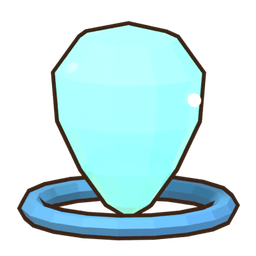
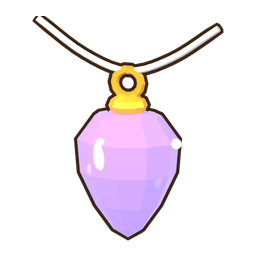
fix(relics): 모으다 만 유물 ×3 가중 — 첫 초월 ★1 약 89 → 71일 · 바다의 눈물 아이콘을 보라 눈물 펜던트로(물방울과 구분)
- relicDrawRates: 같은 등급 안에서 조각이 ★ 칸을 채우다 만(조각 % 3 > 0) 유물을 ×3(RELIC_IN_PROGRESS_WEIGHT).
  등급 확률 · 가격 60/540(사용자 확정)은 그대로, 흩어지던 조각이 한 유물로 모인다. 유물별 공시 확률은 같은 함수라 저절로 맞다.
  시뮬(보석 4000회): 첫 초월 ★1 114 → 84회 · 첫 신화 ★1 42 → 31회. verify-relic-forge-econ 참고값 첫 초월 ★1 약 71일
- 합계 상한(RELIC_STAT_CAP)은 그대로라 ★ 가 빨리 모여도 최대 힘은 같다. 남은 조각 · 소진은 조각 수를 늘리지 않는다
- sea-tear: 맨 물방울(파랑 · 물결 고리)과 비슷해 보여 금 갓 · 고리 · 사슬이 달린 보라 눈물 보석 펜던트로 다시 렌더(Blender)
- 검사: verify-relic-forge-econ 에 가중 단언(×3 · ★ 딱 맞은 유물은 보통 · 등급 합 그대로)

diff --git a/src/titans/relics.ts b/src/titans/relics.ts
@@ -276,15 +276,24 @@ export function relicBannerCost(banner: RelicBanner, stage: number): { single: n
   return { single, ten: single * 9 };
 }
 
-/** 지금 한 번 뽑을 때 각 유물이 나올 확률 — 다 모은 유물은 0 · 다 모은 등급은 남은 등급끼리 비례 */
+/**
+ * 모으다 만 유물 가중 (2026-10-29, 아쉬운 점 "보석 유물 뽑기 ★ 가 약 3배 느리다 — 첫 초월 ★1 약 89일") — 같은 등급 안에서
+ * 조각이 ★ 칸을 채우다 만(조각 % 3 > 0) 유물이 그 등급의 다른 유물보다 이만큼 잘 나온다. 등급 확률 · 가격(60/540, 사용자 확정)은 그대로,
+ * 흩어진 조각이 한 유물로 모인다. 시뮬(보석 4000회): 첫 초월 ★1 114 → 84회 · 첫 신화 ★1 42 → 31회
+ */
+export const RELIC_IN_PROGRESS_WEIGHT = 3;
+
+/** 지금 한 번 뽑을 때 각 유물이 나올 확률 — 다 모은 유물은 0 · 다 모은 등급은 남은 등급끼리 비례 · 등급 안은 모으다 만 유물 가중 */
 export function relicDrawRates(state: RelicState, banner: RelicBanner): { id: RelicId; rate: number }[] {
   const tierRates = RELIC_BANNER_RATES[banner];
   const openOf = (t: Tier) => RELICS.filter((r) => r.tier === t && !relicMaxed(state, r.id));
+  const weightOf = (id: RelicId) => (((state[id] ?? 0) % RELIC_SHARDS_PER_STAR) > 0 ? RELIC_IN_PROGRESS_WEIGHT : 1);
   const live = (Object.keys(tierRates) as Tier[]).filter((t) => openOf(t).length > 0);
   const sum = live.reduce((a, t) => a + (tierRates[t] ?? 0), 0);
+  const tierWeight = new Map(live.map((t) => [t, openOf(t).reduce((a, r) => a + weightOf(r.id), 0)]));
   return RELICS.map((r) => {
     if (!live.includes(r.tier) || relicMaxed(state, r.id) || sum <= 0) return { id: r.id, rate: 0 };
-    return { id: r.id, rate: (tierRates[r.tier] ?? 0) / sum / openOf(r.tier).length };
+    return { id: r.id, rate: ((tierRates[r.tier] ?? 0) / sum) * (weightOf(r.id) / (tierWeight.get(r.tier) ?? 1)) };
   });
 }
 

diff --git a/art-gen/blender/relic_icons.py b/art-gen/blender/relic_icons.py
@@ -908,10 +908,16 @@ def r_mermaid_harp(_):
 
 
 def r_sea_tear(_):
-    ob('tear', C.ellipsoid(Vector((0, 0, -0.05)), (0.36, 0.3, 0.5), egg=-0.45), m('tear', '#5eead4', rough=0.15, emit='#9ff5dc', es=0.5))
-    ob('core', C.ellipsoid(Vector((0, -0.12, -0.15)), (0.14, 0.08, 0.18)), glow('#ffffff', 1.0), 0)
-    ob('wave', C.torus(Vector((0, 0, -0.5)), 0.5, 0.05, seg=18, ring=6), m('wave', '#3f88c4'))
-    for k, (x, z) in enumerate(((-0.4, 0.3), (0.38, 0.1), (0.3, 0.5))):
+    # 2판 (2026-10-29 "물방울과 비슷해 보인다") — 맨 물방울(파랑 · 물결 고리) 대신 보라 눈물 보석 펜던트:
+    # 금 갓 · 고리 · 사슬이 달린 실루엣으로 물방울과 색 · 모양을 갈라 놓는다
+    ob('tear', C.ellipsoid(Vector((0, 0, -0.18)), (0.32, 0.27, 0.44), egg=-0.45), m('tear', '#8b5cf6', rough=0.12, emit='#c4b5fd', es=0.55))
+    ob('core', C.ellipsoid(Vector((0, -0.11, -0.26)), (0.12, 0.07, 0.16)), glow('#f5f3ff', 1.0), 0)
+    ob('shine', C.ellipsoid(Vector((-0.12, -0.24, -0.02)), (0.05, 0.02, 0.11)), m('shine', '#ffffff', emit='#ffffff', es=0.6), 0)
+    ob('cap', C.ellipsoid(Vector((0, 0, 0.27)), (0.13, 0.13, 0.08)), metal_m('#f2c232'))
+    ob('bail', C.torus(Vector((0, 0, 0.42)), 0.09, 0.028, seg=14, ring=6, rot=Euler((math.radians(90), 0, 0))), metal_m('#e0a92a'))
+    chain = spline([Vector((-0.62, 0, 0.82)), Vector((-0.3, 0, 0.6)), Vector((0, 0, 0.5)), Vector((0.3, 0, 0.6)), Vector((0.62, 0, 0.82))], 16)
+    ob('chain', C.tube(chain, 0.022, seg=6), metal_m('#d9dde3'))
+    for k, (x, z) in enumerate(((-0.42, -0.2), (0.4, -0.38), (0.36, 0.05))):
         ob(f'sp{k}', C.ellipsoid(Vector((x, -0.1, z)), (0.035, 0.02, 0.035)), glow('#fff7c0', 1.2), 0)
 
 # ── 재화 아이콘 (2026-10-26 사용자: "붉은 보석, 강화석도 UI 가 너무 복잡해 조금 더 단순하게" · "성장은 도토리인데 골드로" — 골드가 도토리 그림이었다)
